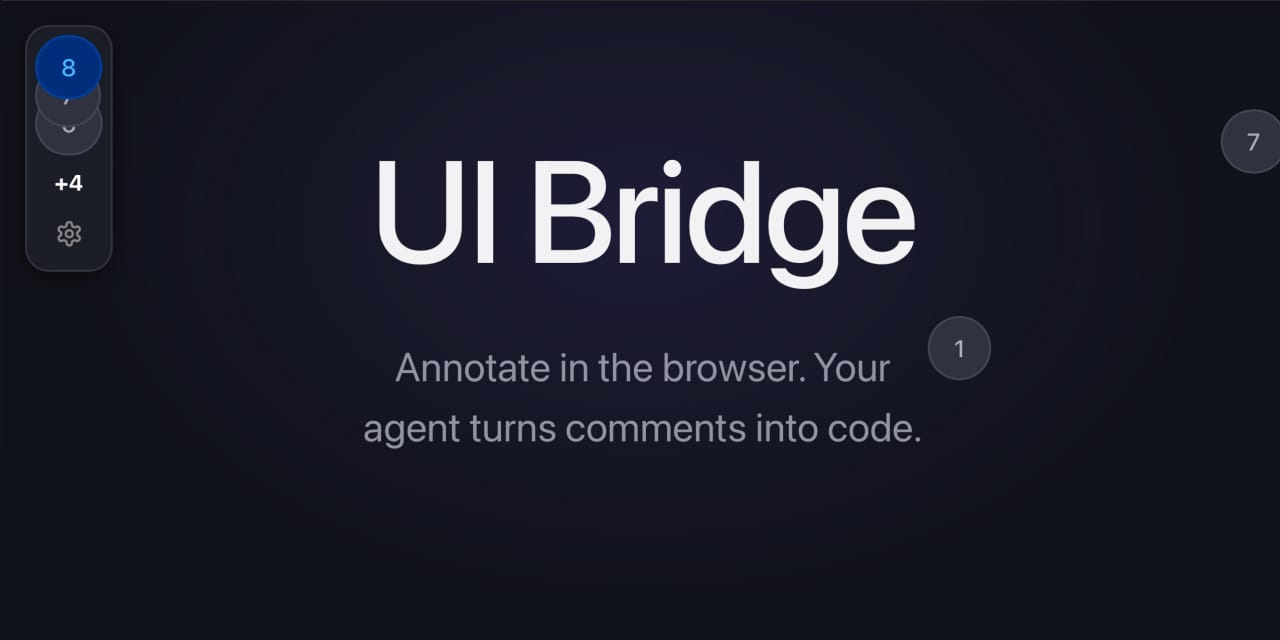
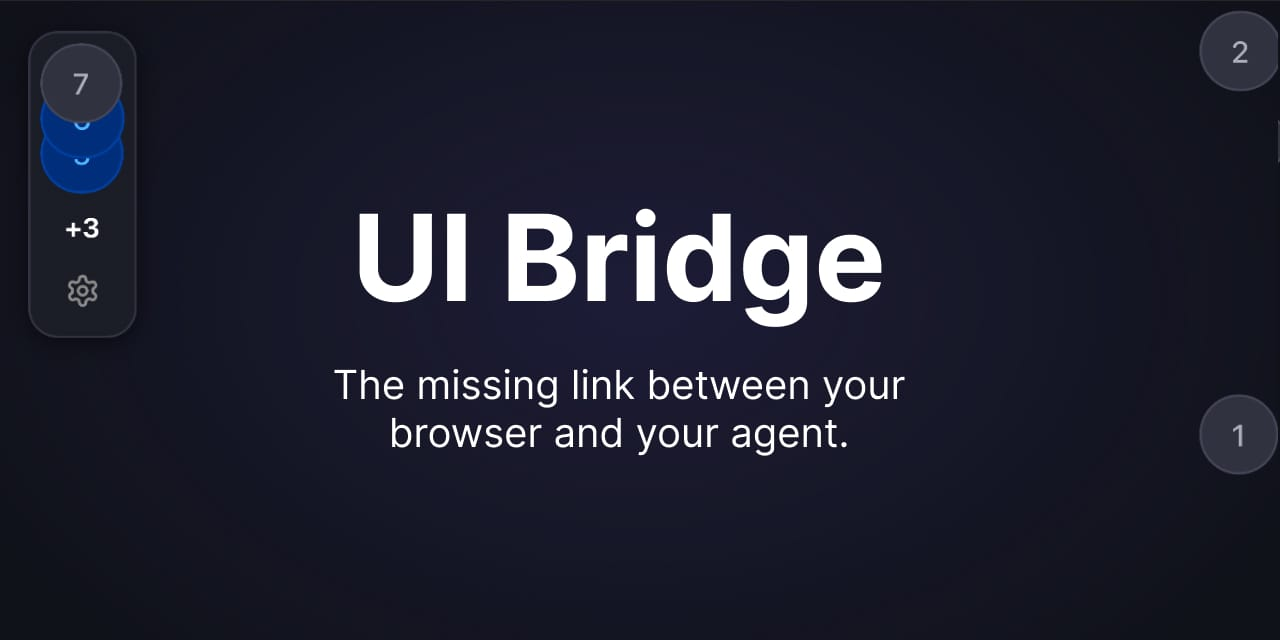
fix: update description for clarity and adjust Open Graph image URL

diff --git a/README.md b/README.md
@@ -1,6 +1,6 @@
 # UI Bridge
 
-Annotate in the browser. Your agent turns comments into live code changes.
+The missing link between your browser and your agent.
 
 ---
 